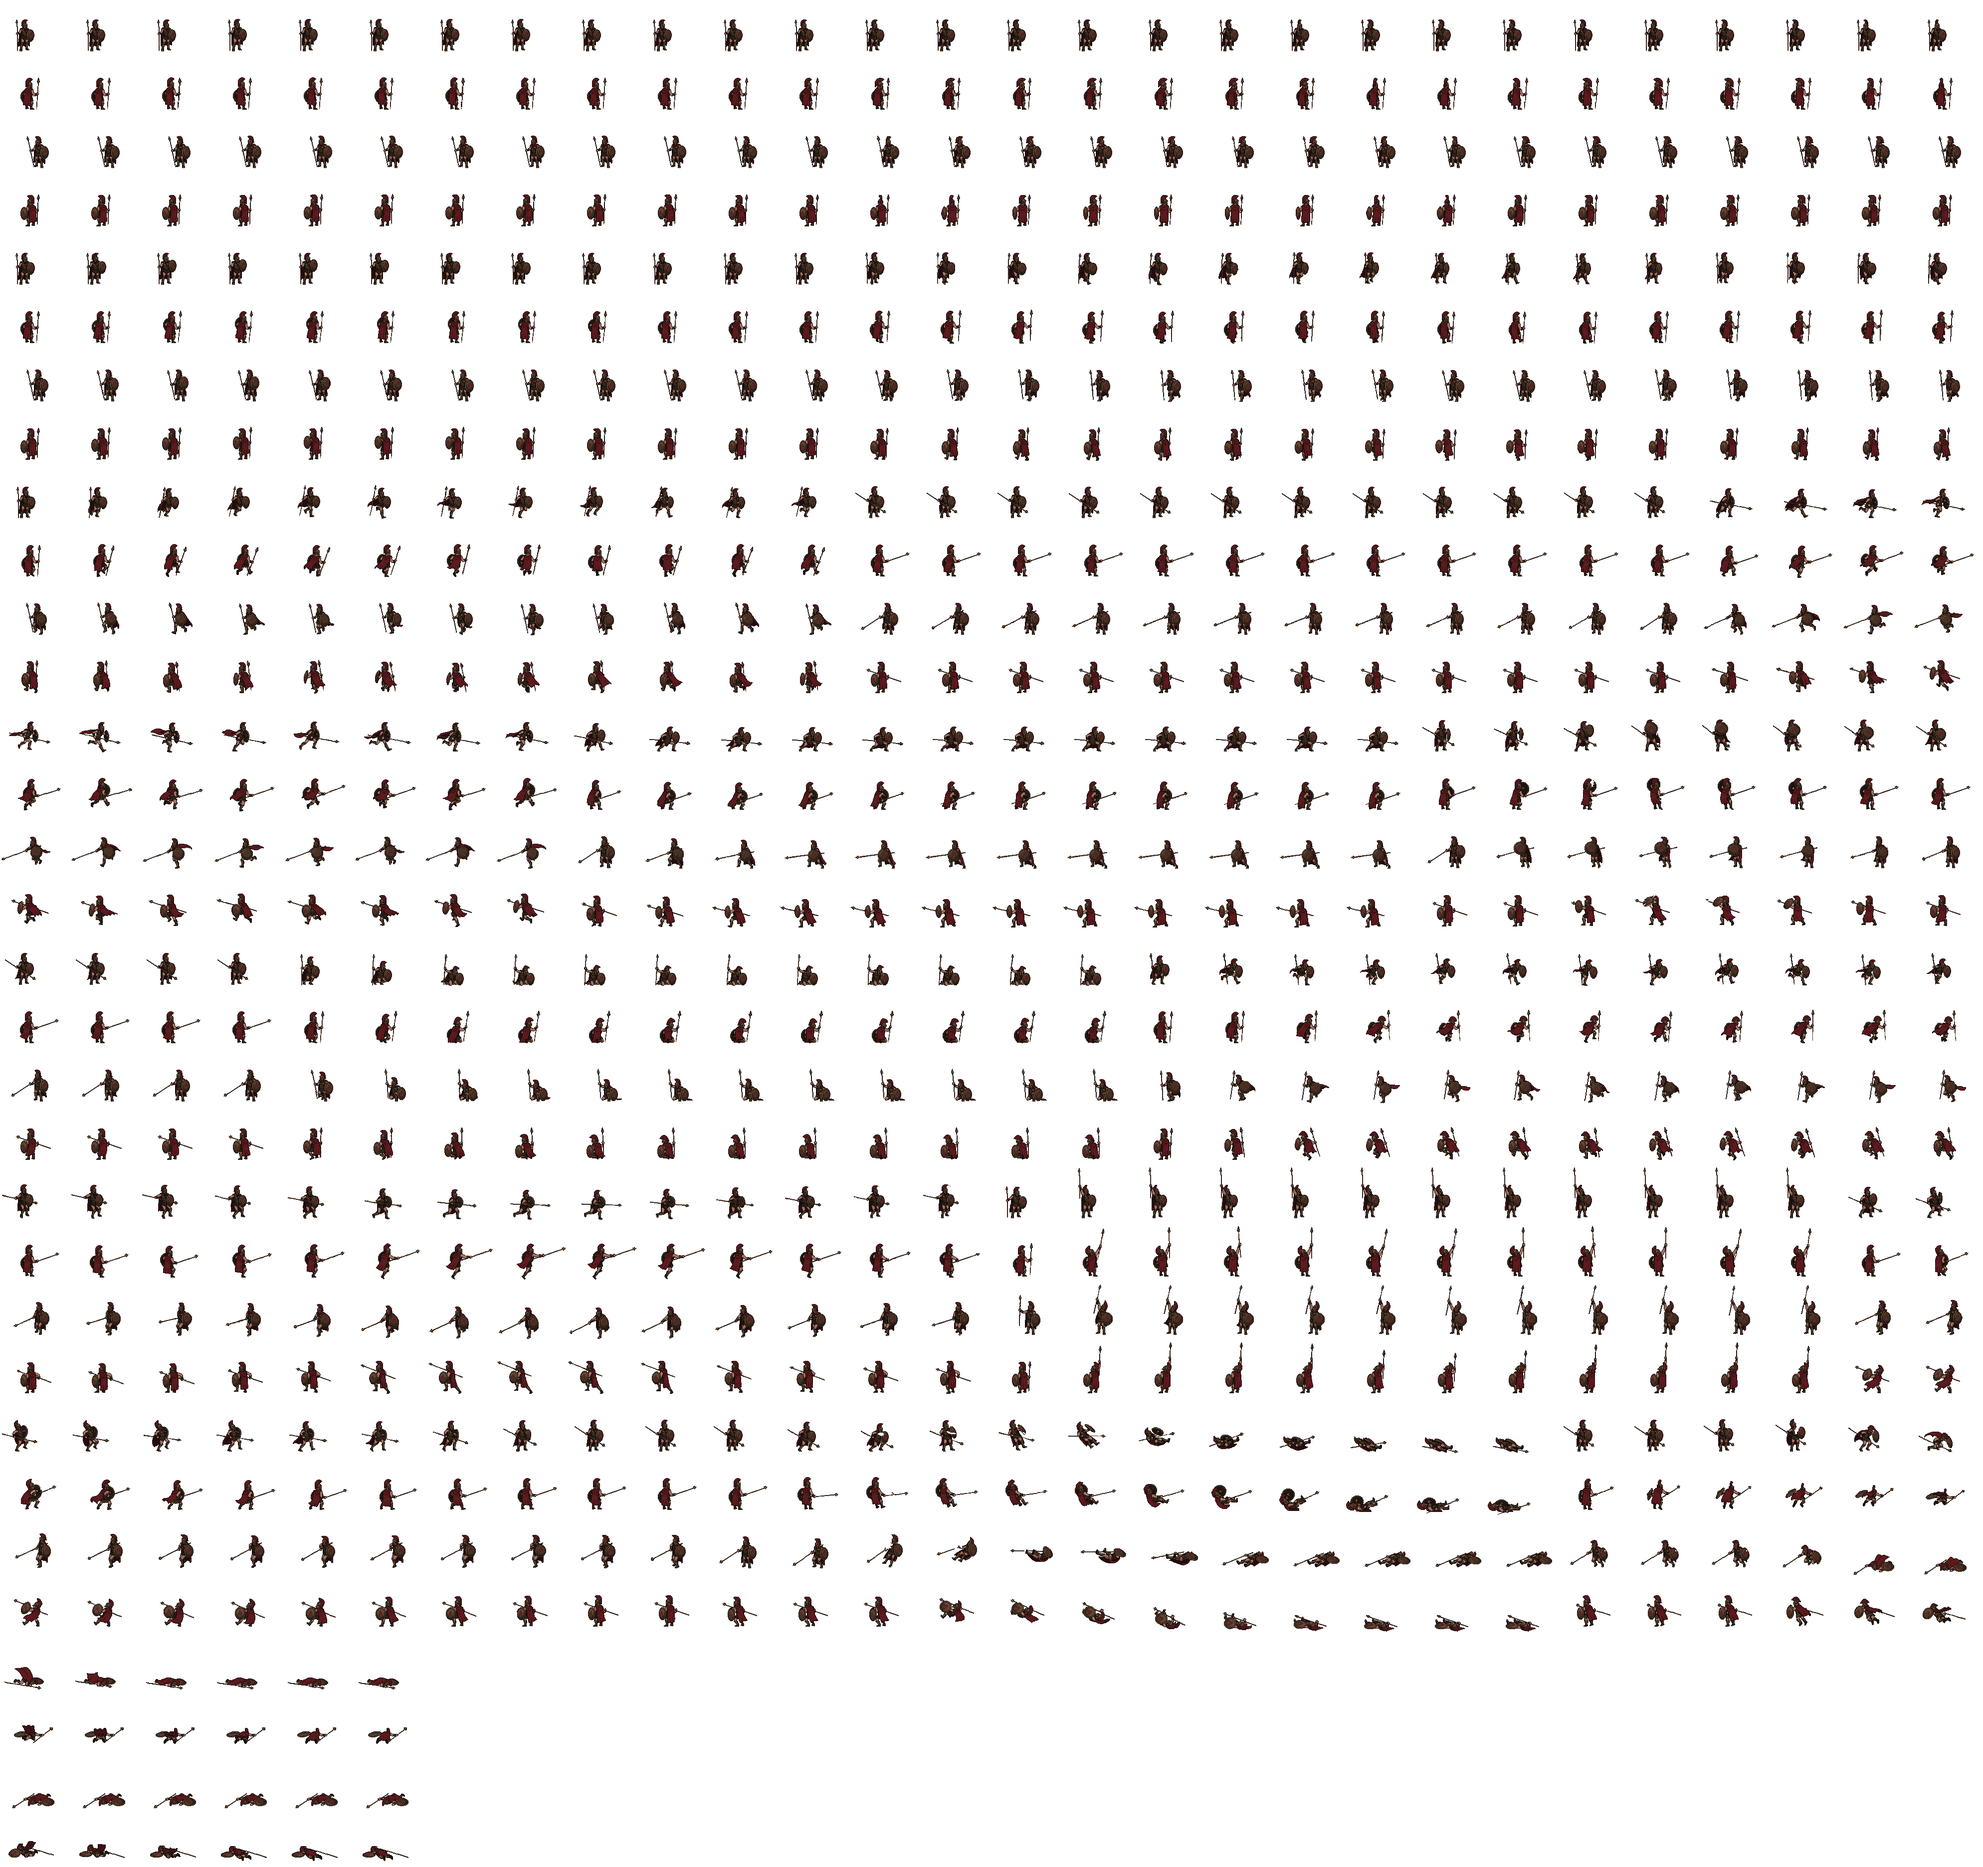
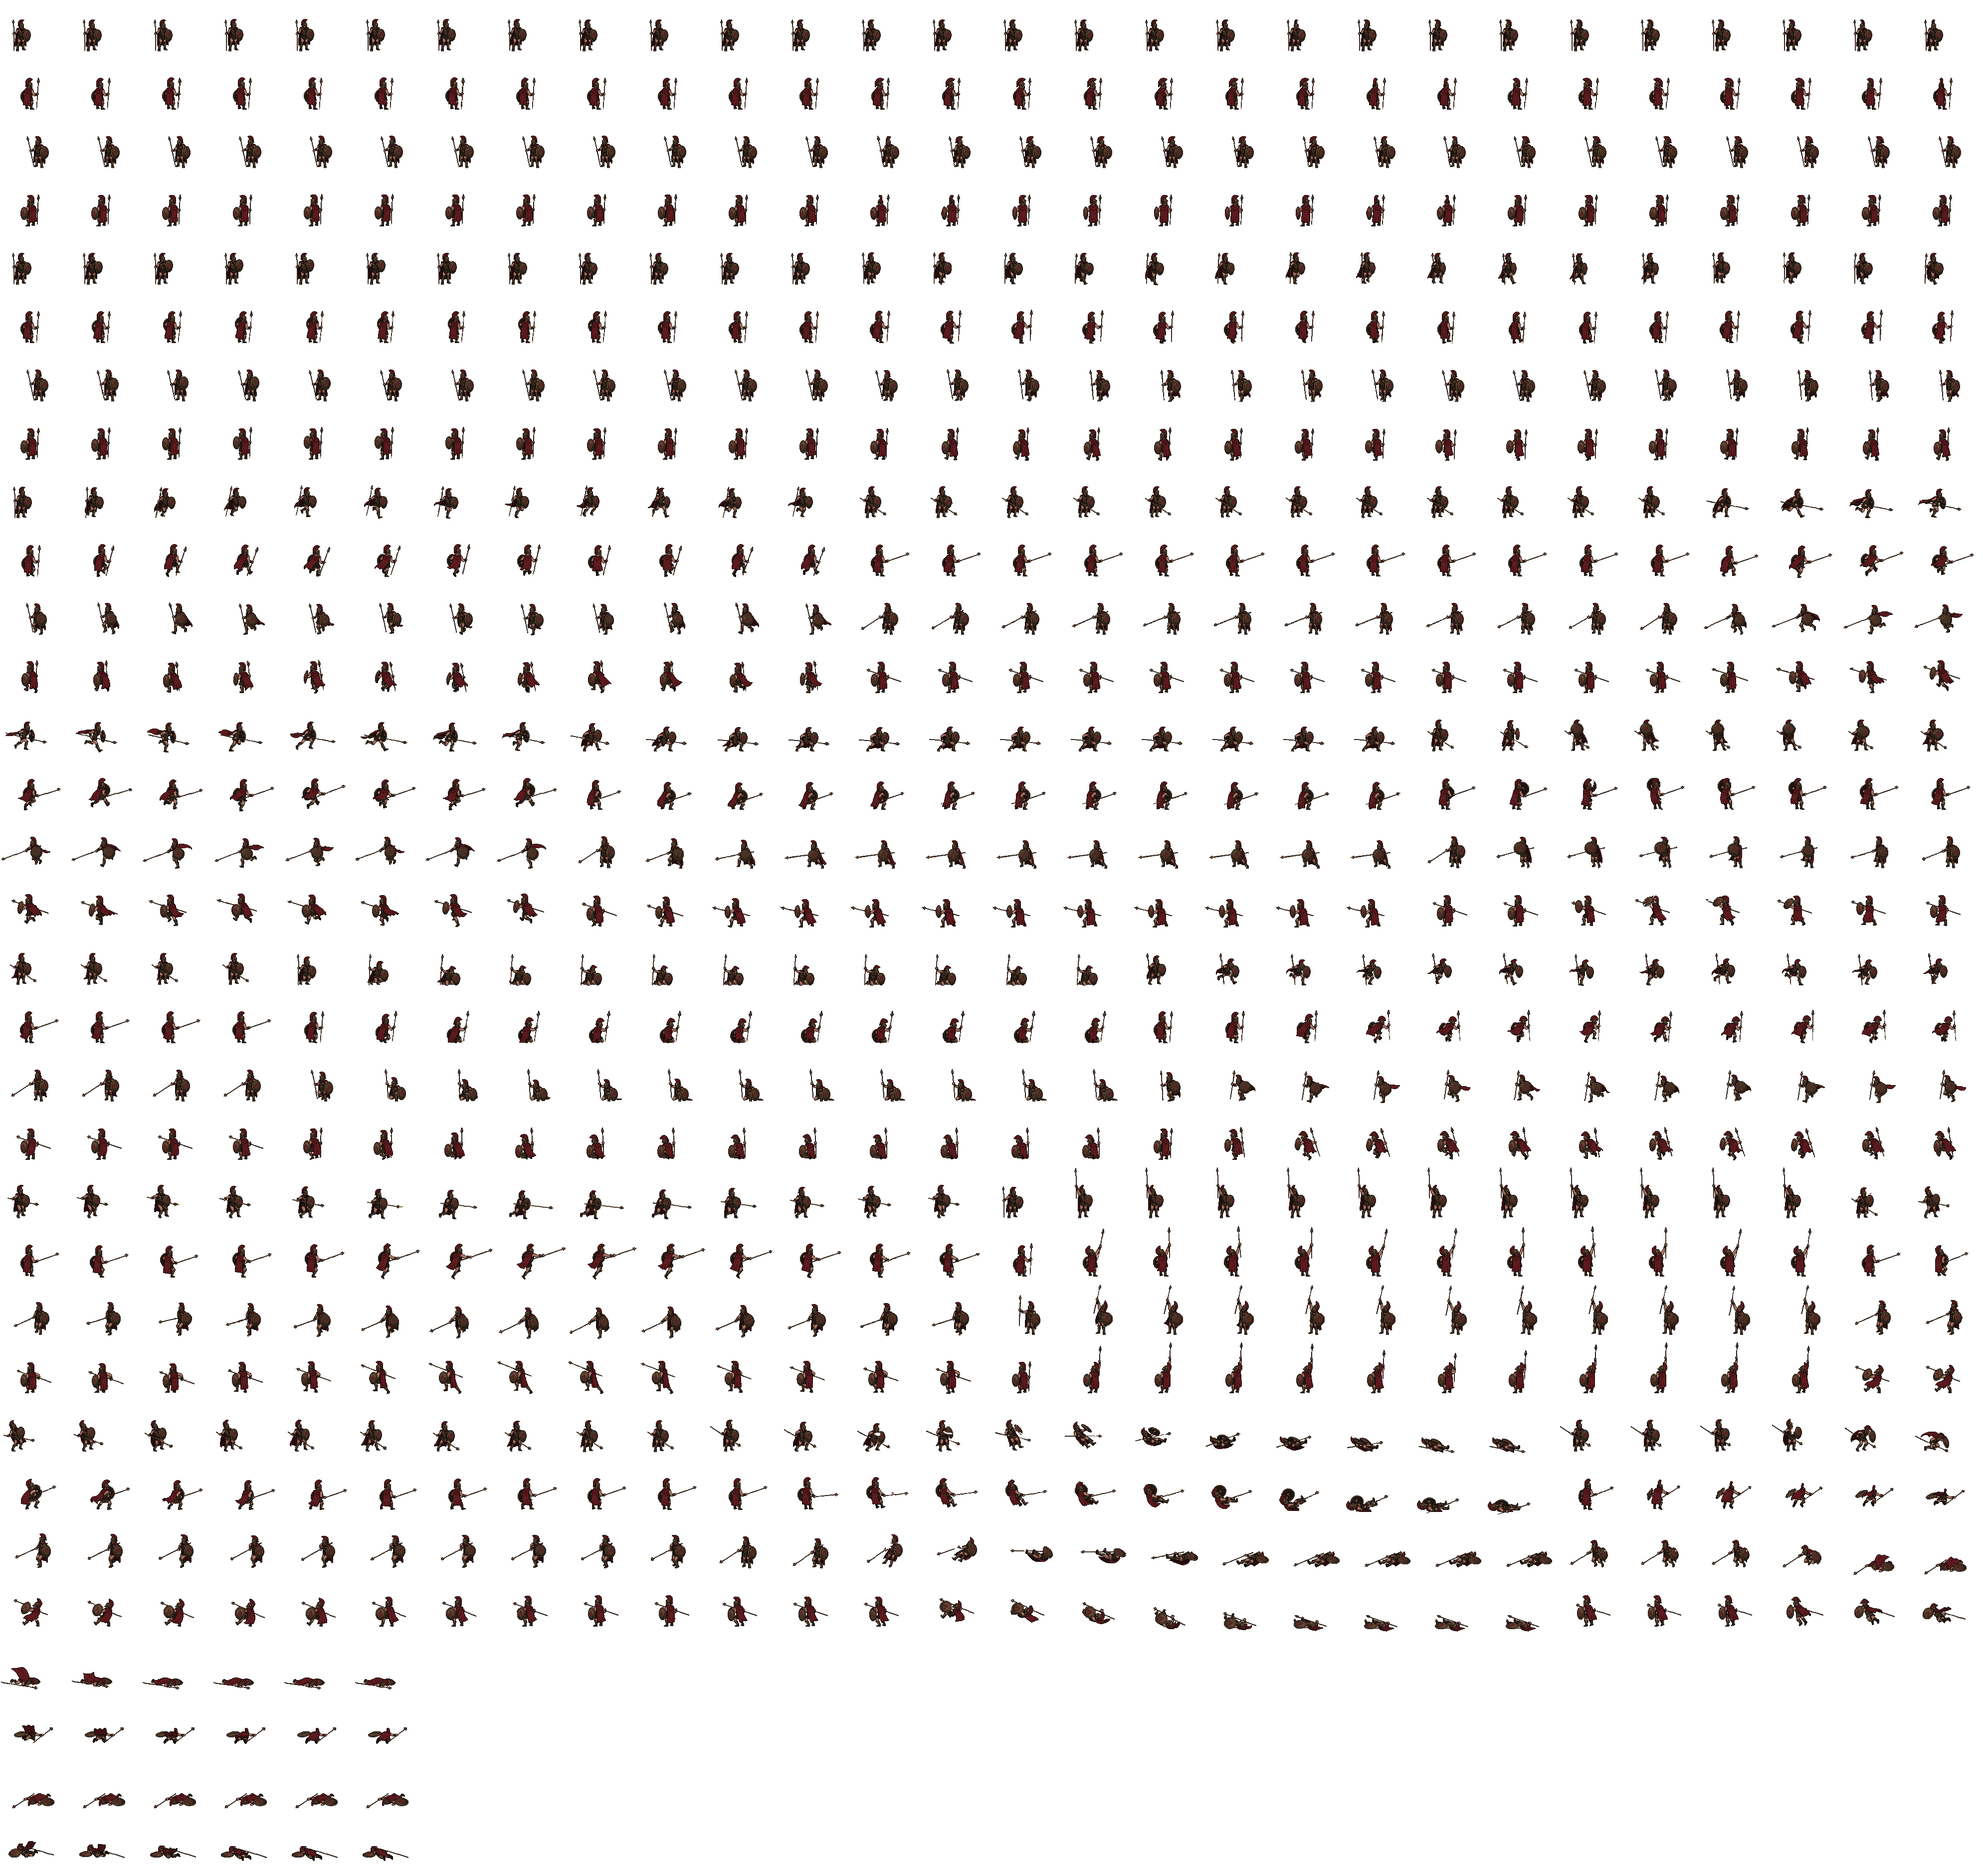
fix(art): hoplite SE guard, the spearhead clear of the shield and leading
ready, block, stagger and thrust SE redone from a grip-back SE guard (head 52 px
ahead of the fist): the leaf hid behind the shield rim and the long butt read as
the point. NE, SW, NW rows byte-identical; SE anchor x 49 -> 42 (shorter butt).
QC 0 failures; 11 gens (stagger s2 rejected: an invented smear and a second tip).

diff --git a/docs/v5/ASSET_LOG.md b/docs/v5/ASSET_LOG.md
@@ -93,6 +93,18 @@ The fix is a new SE guard and SE flat-guard frame from `i5a/guard.mjs --ahead 52
 
 STYLE_LOCK §6 gained an additive "SE guard" note. Zooms are in the scratchpad: `se_zoom_royal_guard_v2.png`. QC: 0 failures.
 
+#### hoplite SE guard fix (routed to I5a by main)
+
+The shipped hoplite had the same SE geometry as royal_guard: its leaf head led, but behind the shield rim. I redid four of its SE clips from an equivalent grip-back SE guard, made with `i5a/guard.mjs --ahead 52 --behind 10` on the H4 SE rotation (`docs/v5/pixellab/I3/raw/first5/`):
+
+- ready **s2** and block **s2** (pixminimax 2 each)
+- thrust **s2** (skeleton-v3, 3: `rig.mjs thrust south-east guard2flat --grip 35,61`)
+- stagger **s3** (pixminimax 2). stagger s2 was **rejected (invented item / weapon doubled)**: an invented brown smear came off the shield in f0, and a second spear tip appeared in f1.
+
+That is **11 gens**. The jobs were added to `docs/v5/pixellab/I3/jobs.json` (and also logged in `docs/v5/pixellab/I5a/hoplite/jobs.json`), and the picks are in `hoplite.sheet.json`.
+
+The rebuild leaves the NE, SW and NW rows byte-identical; the check was a pixel diff, with 0 changed pixels outside the SE row. The colour groups and tiers are unchanged too. The SE anchor moved from x 49 to 42 because the shorter butt shrank the row's left extent, so all SE frames sit 7 px further left in the image. On screen they are identical, because the runtime draws them from the anchor. QC: 0 failures. Zoom: scratchpad `se_zoom_hoplite_v2.png`.
+
 ### I3a Hoplite production and style lock: realistic H4 base, 16 clips in 4 facings, recolour tiers (2026-10-18)
 
 **Brief** (user, after I1b): the E3 look at realistic adult proportions (about 7 heads, no big helmet), one animated
